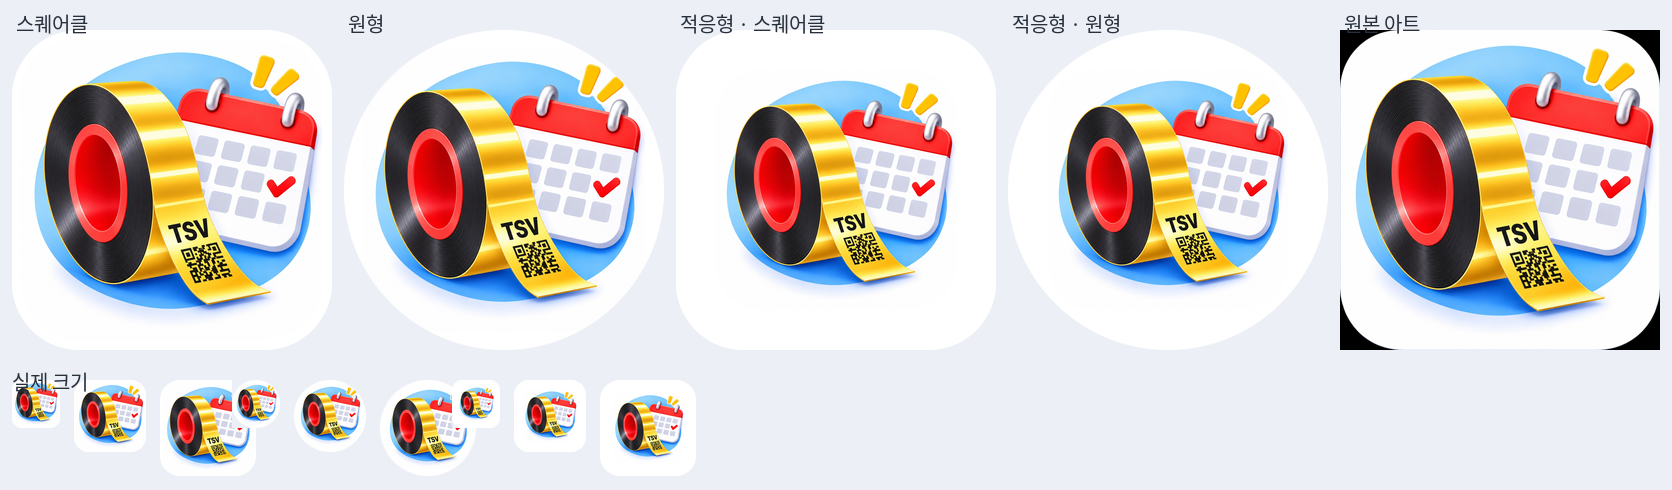
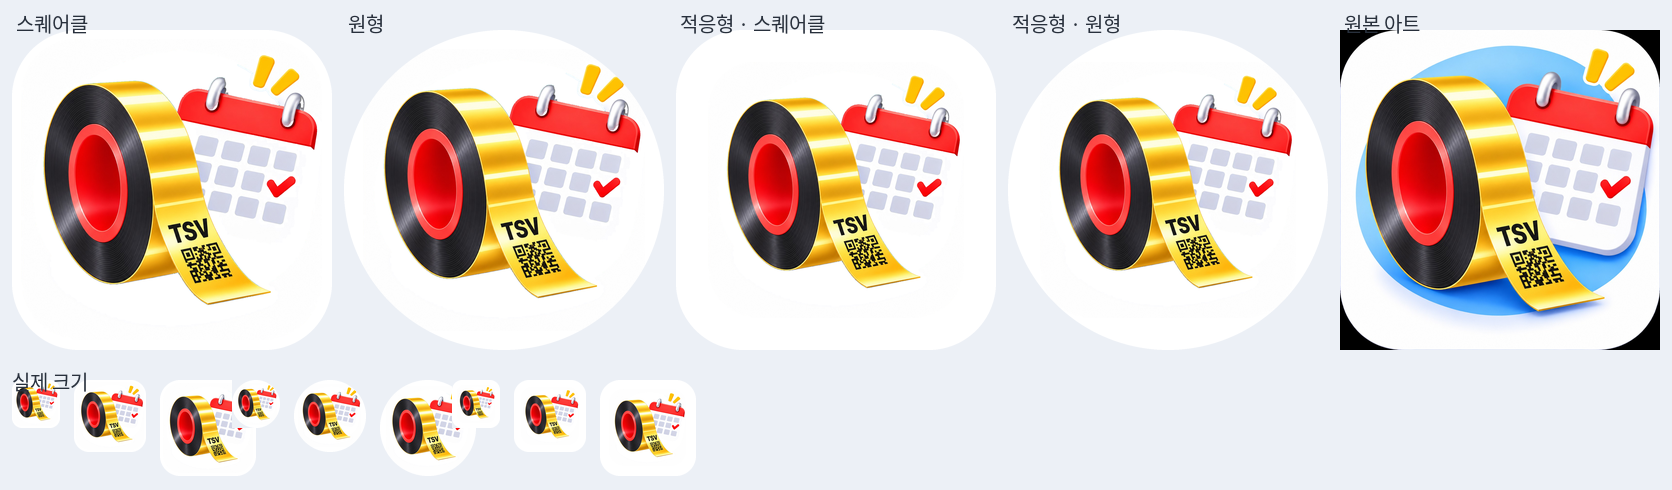
v2.4.2 — 아이콘 바탕을 순백(#FFFFFF)으로: 하늘색 원판 제거, 적응형 아트 80%
- 이미지 재생성 없이 픽셀/마스크 처리로 하늘색 원판·그라데이션·그림자만 흰색으로 치환
- 날짜 칸·은색 링·금색 필름·TSV·QR·느낌표는 보호 마스크로 원본 유지
- 물체 경계 잔여 청록 헤어라인 디스필, 미리보기 시트 갱신
- versionCode 18 / versionName 2.4.2, 웹앱 APP_VERSION 동기화

diff --git a/app/src/main/assets/index.html b/app/src/main/assets/index.html
@@ -531,7 +531,7 @@ const {
   useRef,
   useMemo
 } = React;
-const APP_VERSION = "2.4.1";
+const APP_VERSION = "2.4.2";
 
 // 🔊 앱 효과음 — 외부 오디오 파일 없이 Web Audio API로 만드는 짧은 소리
 const SFX_STORAGE_KEY = "todaywork_v33_sound";

diff --git a/tools/generate_icons_from_art.py b/tools/generate_icons_from_art.py
@@ -1,21 +1,36 @@
 #!/usr/bin/env python3
-"""Build 「TSV 교대달력」 launcher icons from the supplied artwork (v2.4.1).
+"""Build 「TSV 교대달력」 launcher icons from the supplied artwork (v2.4.2).
 
-The source is the icon artwork the user sent (2026-11-23): a white rounded-square
-backdrop with a light-blue disc, a gold PI film roll, a calendar and two yellow
-exclamation marks. The black behind the rounded corners is the backdrop the image
-was exported on, not part of the design, so it is flood-filled with white
-(#FFFFFF) — the same white the artwork's own backdrop uses — before anything is
-scaled. The artwork itself is never redrawn or retouched: only the mask removal,
-LANCZOS resizing, centring and squircle/circle masking happen here.
+Source (2026-11-23, second revision): the same white rounded-square icon with the
+gold PI film roll, the calendar and the two yellow exclamation marks, but the
+light-blue disc that used to sit behind them is gone — v2.4.2 replaces it with a
+pure white (#FFFFFF) backdrop.
+
+Nothing is redrawn. Two mask passes work on the pixels of the original:
+
+  clear_blue_background()
+     * the disc, its gradient and the shadows it carries are "blue over green"
+       (b-g >= 8); that whole field becomes white
+     * the artwork is protected by four rules — saturated colours, dark ink, the
+       calendar's grey date cells (small blobs) and the silver binding rings
+     * the film body is dark with thin cyan rim-light lines, so it is closed as a
+       solid body before masking (those highlights are detail, not backdrop)
+     * the disc's own soft rim and the pale cyan shadow stroke that framed the
+       "!" plate are cleared as well
+     * any blue cast left on an object edge is despilled (blue channel pulled back
+       to max(r,g)+3) so no cyan hairline survives
+  clean_artwork()
+     * the black backdrop behind the rounded corners is flood-filled with white
+     * the frame hairline is cropped away
+
+The result is laid out at five densities for the legacy squircle, the legacy
+circle and the adaptive foreground layer (artwork at 80% of the canvas so it
+fills a launcher icon without being clipped).
 
 Outputs (app/src/main/res):
   mipmap-{mdpi..xxxhdpi}/ic_launcher.png             legacy squircle (48..192px)
   mipmap-{mdpi..xxxhdpi}/ic_launcher_round.png       legacy circle
-  mipmap-{mdpi..xxxhdpi}/ic_launcher_foreground.png  adaptive 108dp layer (108..432px),
-        artwork at 75% of the canvas so the film roll, the calendar and the
-        exclamation marks all stay inside the 72dp safe zone; the white backdrop
-        blends into the #FFFFFF adaptive background
+  mipmap-{mdpi..xxxhdpi}/ic_launcher_foreground.png  adaptive 108dp layer (108..432px)
   icon-preview.png                                   preview sheet
 
 Usage: python3 tools/generate_icons_from_art.py SOURCE_IMAGE [out_res_dir] [--preview PATH]
@@ -27,13 +42,14 @@ from collections import deque
 
 import numpy as np
 from PIL import Image, ImageDraw, ImageFilter
+from scipy import ndimage
 
 LEGACY = {"mdpi": 48, "hdpi": 72, "xhdpi": 96, "xxhdpi": 144, "xxxhdpi": 192}
 ADAPTIVE = {"mdpi": 108, "hdpi": 162, "xhdpi": 216, "xxhdpi": 324, "xxxhdpi": 432}
 
 LEGACY_ART = 0.94      # artwork inside the legacy squircle
 ROUND_ART = 0.88       # smaller so the circle never bites into the calendar
-ADAPTIVE_ART = 0.75    # artwork inside the 108dp adaptive canvas (safe zone)
+ADAPTIVE_ART = 0.80    # artwork inside the 108dp adaptive canvas (safe zone)
 KOREAN_FONT = "/usr/share/fonts/pickle-hwp/NotoSansCJKkr-Regular.otf"
 SQUIRCLE_RADIUS = 0.21  # legacy squircle corner radius, same family as One UI
 SS = 4                 # supersampling for masks
@@ -44,9 +60,102 @@ DARK = 110             # "black backdrop" threshold
 DILATE = 9             # grows the removed backdrop a few px past its anti-aliased edge
 
 
-def clean_artwork(path):
+# --------------------------------------------------------------------------- #
+# 1. blue disc -> white
+# --------------------------------------------------------------------------- #
+def _channels(a):
+    r = a[:, :, 0].astype(np.int16)
+    g = a[:, :, 1].astype(np.int16)
+    b = a[:, :, 2].astype(np.int16)
+    mx = np.maximum(np.maximum(r, g), b)
+    mn = np.minimum(np.minimum(r, g), b)
+    C = mx - mn                      # chroma
+    B = b - np.maximum(r, g)         # blue dominance
+    L = 0.299 * r + 0.587 * g + 0.114 * b
+    return r, g, b, C, B, L
+
+
+def _date_cells(r, g, b, B):
+    """Bluish-grey calendar cells: small, enclosed blobs inside the page."""
+    cand = (B >= 8) & (b >= 185) & (b <= 250) & (np.abs(g - r) <= 6)
+    lab, n = ndimage.label(cand, structure=np.ones((3, 3)))
+    cells = np.zeros(cand.shape, bool)
+    for i in range(1, n + 1):
+        ys, xs = np.where(lab == i)
+        if 60 <= len(ys) <= 8000 and 640 <= xs.mean() <= 1150 and 350 <= ys.mean() <= 790:
+            cells[lab == i] = True
+    return ndimage.binary_dilation(cells, np.ones((5, 5)))
+
+
+def _rings(r, g, b, C, L, shape):
+    """Silver binding rings: neutral grey highlights around the calendar's top."""
+    zone = np.zeros(shape, bool)
+    zone[110:400, 740:1200] = True
+    rings = zone & (C <= 26) & (L >= 140) & (b - g <= 25) & (g - r < 30)
+    rings = ndimage.binary_opening(rings, np.ones((3, 3)))
+    return ndimage.binary_dilation(rings, np.ones((7, 7)))
+
+
+def clear_blue_background(path):
+    a = np.asarray(Image.open(path).convert("RGB"))
+    r, g, b, C, B, L = _channels(a)
+
+    colored = (C >= 30) & (b - g < 8) & (g - r < 20)     # gold, red, yellow
+    dark = (L < 120) & (B <= 15)                          # black ink / film
+    cells = _date_cells(r, g, b, B)
+    rings = _rings(r, g, b, C, L, C.shape)
+    prot = colored | dark | cells | rings
+
+    # film body: dark, with thin cyan rim-light lines -> protect it as one body
+    yy, xx = np.ogrid[-15:16, -15:16]
+    disk = (yy * yy + xx * xx) <= 15 * 15
+    # (only neutral black — the dark navy shadows on the disc are background)
+    prot = prot | ndimage.binary_closing((L < 110) & (B <= 25), structure=disk)
+
+    blue = (b - g >= 8) & ~prot
+    halo = (L >= 234) & (b - g >= 3) & ~prot              # disc's soft outer edge
+    halo = ndimage.binary_dilation(halo, np.ones((5, 5))) & halo
+    blue |= halo
+    blue |= ndimage.binary_dilation(blue, np.ones((3, 3)), iterations=3) & (L >= 236) & ~prot
+
+    bright = ndimage.uniform_filter(L, 15) > 195
+    cyan = (g - r >= 20) & (b - g >= -15) & (b - r >= 20) & bright & ~prot
+    cyan_only = cyan.copy()
+    blue |= cyan
+    blue = ndimage.binary_closing(blue, np.ones((3, 3)))
+    lab, n = ndimage.label(blue, structure=np.ones((3, 3)))
+    sizes = ndimage.sum(blue, lab, range(1, n + 1))
+    blue = np.isin(lab, [i + 1 for i, s in enumerate(sizes) if s >= 30])
+    blue |= cyan_only
+
+    alpha = Image.fromarray((blue * 255).astype(np.uint8)).filter(ImageFilter.GaussianBlur(0.8))
+    al = np.asarray(alpha).astype(np.float32)[:, :, None] / 255.0
+
+    out = a.astype(np.float32).copy()
+    near = ndimage.binary_dilation(blue, np.ones((9, 9))) & ~blue
+    despill = near & (B > 3) & (B <= 90)
+    target = np.minimum(b, np.maximum(r, g) + 3)
+    out[:, :, 2] = np.where(despill, target, b)
+
+    res = np.clip(out * (1 - al) + 255.0 * al + 0.5, 0, 255).astype(np.uint8)
+
+    # pale cyan shadow stroke that framed the "!" plate (light, cyan, not on an object)
+    r2, g2, b2, C2, B2, L2 = _channels(res)
+    solid = ndimage.binary_dilation((C2 >= 30) & (b2 - g2 < 8) & (g2 - r2 < 20) | (L2 < 110),
+                                    np.ones((5, 5)))
+    stroke = (g2 - r2 >= 40) & (np.abs(b2 - g2) <= 25) & (L2 >= 150) & ~solid
+    res[stroke] = WHITE
+    print(f"  cleared {int(blue.sum())} disc px, {int(stroke.sum())} stroke px, "
+          f"{int(despill.sum())} despilled")
+    return Image.fromarray(res)
+
+
+# --------------------------------------------------------------------------- #
+# 2. black mock-up backdrop + crop
+# --------------------------------------------------------------------------- #
+def clean_artwork(im):
     """Flood-fill the black outside the rounded square with white, then trim the edge line."""
-    a = np.asarray(Image.open(path).convert("RGB")).astype(np.uint8)
+    a = np.asarray(im.convert("RGB")).astype(np.uint8)
     r, g, b = a[:, :, 0].astype(int), a[:, :, 1].astype(int), a[:, :, 2].astype(int)
     near_black = (r < DARK) & (g < DARK) & (b < DARK)
     h, w = near_black.shape
@@ -74,6 +183,9 @@ def clean_artwork(path):
     return Image.fromarray(a)
 
 
+# --------------------------------------------------------------------------- #
+# 3. render the layers
+# --------------------------------------------------------------------------- #
 def squircle_mask(size, radius_ratio=SQUIRCLE_RADIUS):
     m = Image.new("L", (size * SS, size * SS), 0)
     ImageDraw.Draw(m).rounded_rectangle(
@@ -174,7 +286,8 @@ def main():
     if "--preview" in sys.argv:
         preview_path = sys.argv[sys.argv.index("--preview") + 1]
 
-    master = clean_artwork(src)
+    white_backed = clear_blue_background(src)
+    master = clean_artwork(white_backed)
 
     for dens, size in LEGACY.items():
         d = os.path.join(base, "mipmap-" + dens)

diff --git a/app/src/main/java/com/tsv/dutycalendar/MainActivity.java b/app/src/main/java/com/tsv/dutycalendar/MainActivity.java
@@ -1608,10 +1608,10 @@ public class MainActivity extends Activity {
             try {
                 String version = getPackageManager()
                         .getPackageInfo(getPackageName(), 0).versionName;
-                return version == null || version.trim().isEmpty() ? "2.4.1" : version;
+                return version == null || version.trim().isEmpty() ? "2.4.2" : version;
             } catch (Exception e) {
                 Log.w(TAG, "getAppVersion failed", e);
-                return "2.4.1";
+                return "2.4.2";
             }
         }
 

diff --git a/README.md b/README.md
@@ -135,6 +135,22 @@ time** (no `text/babel`, no Babel at runtime), so the app still starts with no n
   `localStorage` (`todaywork_v33_sound`) plus 톡톡/슉슉/띠링 preview buttons.
 - versionCode 12 / versionName 2.1, same fixed signing key.
 
+## v2.4.2 — 아이콘 바탕을 순백(#FFFFFF)으로
+
+- **하늘색 원형 바탕 제거** — 승현 님이 요청하신 대로 v2.4.1 아이콘 뒤의 연한 하늘색 원판을
+  없애고 전체 바탕을 순백 `#FFFFFF`으로 바꿨다. 다시 그리지 않고 픽셀·마스크 처리만 했다:
+  파란 기운(`b-g`)으로 원판·그라데이션·그림자를 흰색으로 치환하고, 달력의 회색 날짜 칸·
+  은색 링·금색 필름 롤·TSV·QR·느낌표는 보호 마스크로 원본 그대로 남겼다. 필름 롤·달력
+  아래에 남아 있던 파란 그림자도 흰색으로 정리했고, 물체 경계에 남는 옅은 청록 헤어라인은
+  디스필로 지웠다.
+- **적응형 아트 비율 76% → 80%** — 여백이 살짝 넉넉했던 v2.4.1보다 아트를 키워 런처에서 더
+  시원하게 채우되, 원형 마스크에 잘리는 화소가 없도록 맞췄다(아트 내부 최대 반경 0.914).
+- `tools/generate_icons_from_art.py`가 `clear_blue_background()` → `clean_artwork()` →
+  15개 레이어(5밀도 × 스퀘어클·원형·적응형) + `icon-preview.png` 생성까지 담당한다.
+- versionCode 18 / versionName 2.4.2, 고정 서명 키 그대로. 웹앱 `APP_VERSION`과
+  `getAppVersion()` 폴백도 2.4.2.
+- 기능 변경 없음: v2.4.1의 알람·게임·권한·위젯·캘린더·Firebase 공유 그대로.
+
 ## v2.4.1 — 새 앱 아이콘 (PI 필름 롤 · 달력 · 느낌표)
 
 - **새 런처 아이콘** — the artwork the user sent on 2026-11-23 (white rounded-square
@@ -312,8 +328,8 @@ resizes it with LANCZOS into legacy squircle (`ic_launcher`), circle
 (`ic_launcher_round`) and adaptive foreground layers for all five densities and
 follows it with `icon-preview.png`. The adaptive background is plain white
 (`#FFFFFF`) so the white backdrop of the artwork blends in, and the foreground
-artwork sits at 76% of the 108dp canvas, inside the 72dp safe zone, so neither a
-circular (One UI) nor a squircle mask clips the film roll or the calendar.
+artwork sits at 80% of the 108dp canvas (v2.4.2) with every visible mark inside the
+circle inscribed in it, so neither a circular (One UI) nor a squircle mask clips it.
 - The `<monochrome>` themed-icon layer was dropped: a tint silhouette of this
 photographic artwork loses the film roll's highlights, so themed icons simply
 fall back to the full-colour icon.
@@ -326,7 +342,7 @@ builds the launcher icons from the supplied artwork and writes legacy, round and
 adaptive foreground layers for all five densities, plus a preview sheet. It does
 not redraw the artwork: it (1) flood-fills any black backdrop outside the artwork's
 rounded square with white and trims the anti-aliased edge line, (2) resizes with
-LANCZOS, (3) centres the artwork at 94% (squircle), 88% (circle) or 75% (adaptive,
+LANCZOS, (3) centres the artwork at 94% (squircle), 88% (circle) or 80% (adaptive,
 inside the 72dp safe zone) of the canvas, and (4) applies the squircle/circle mask
 for the legacy layers. The adaptive background is `#FFFFFF`
 (`values/colors.xml` → `ic_launcher_background`).
